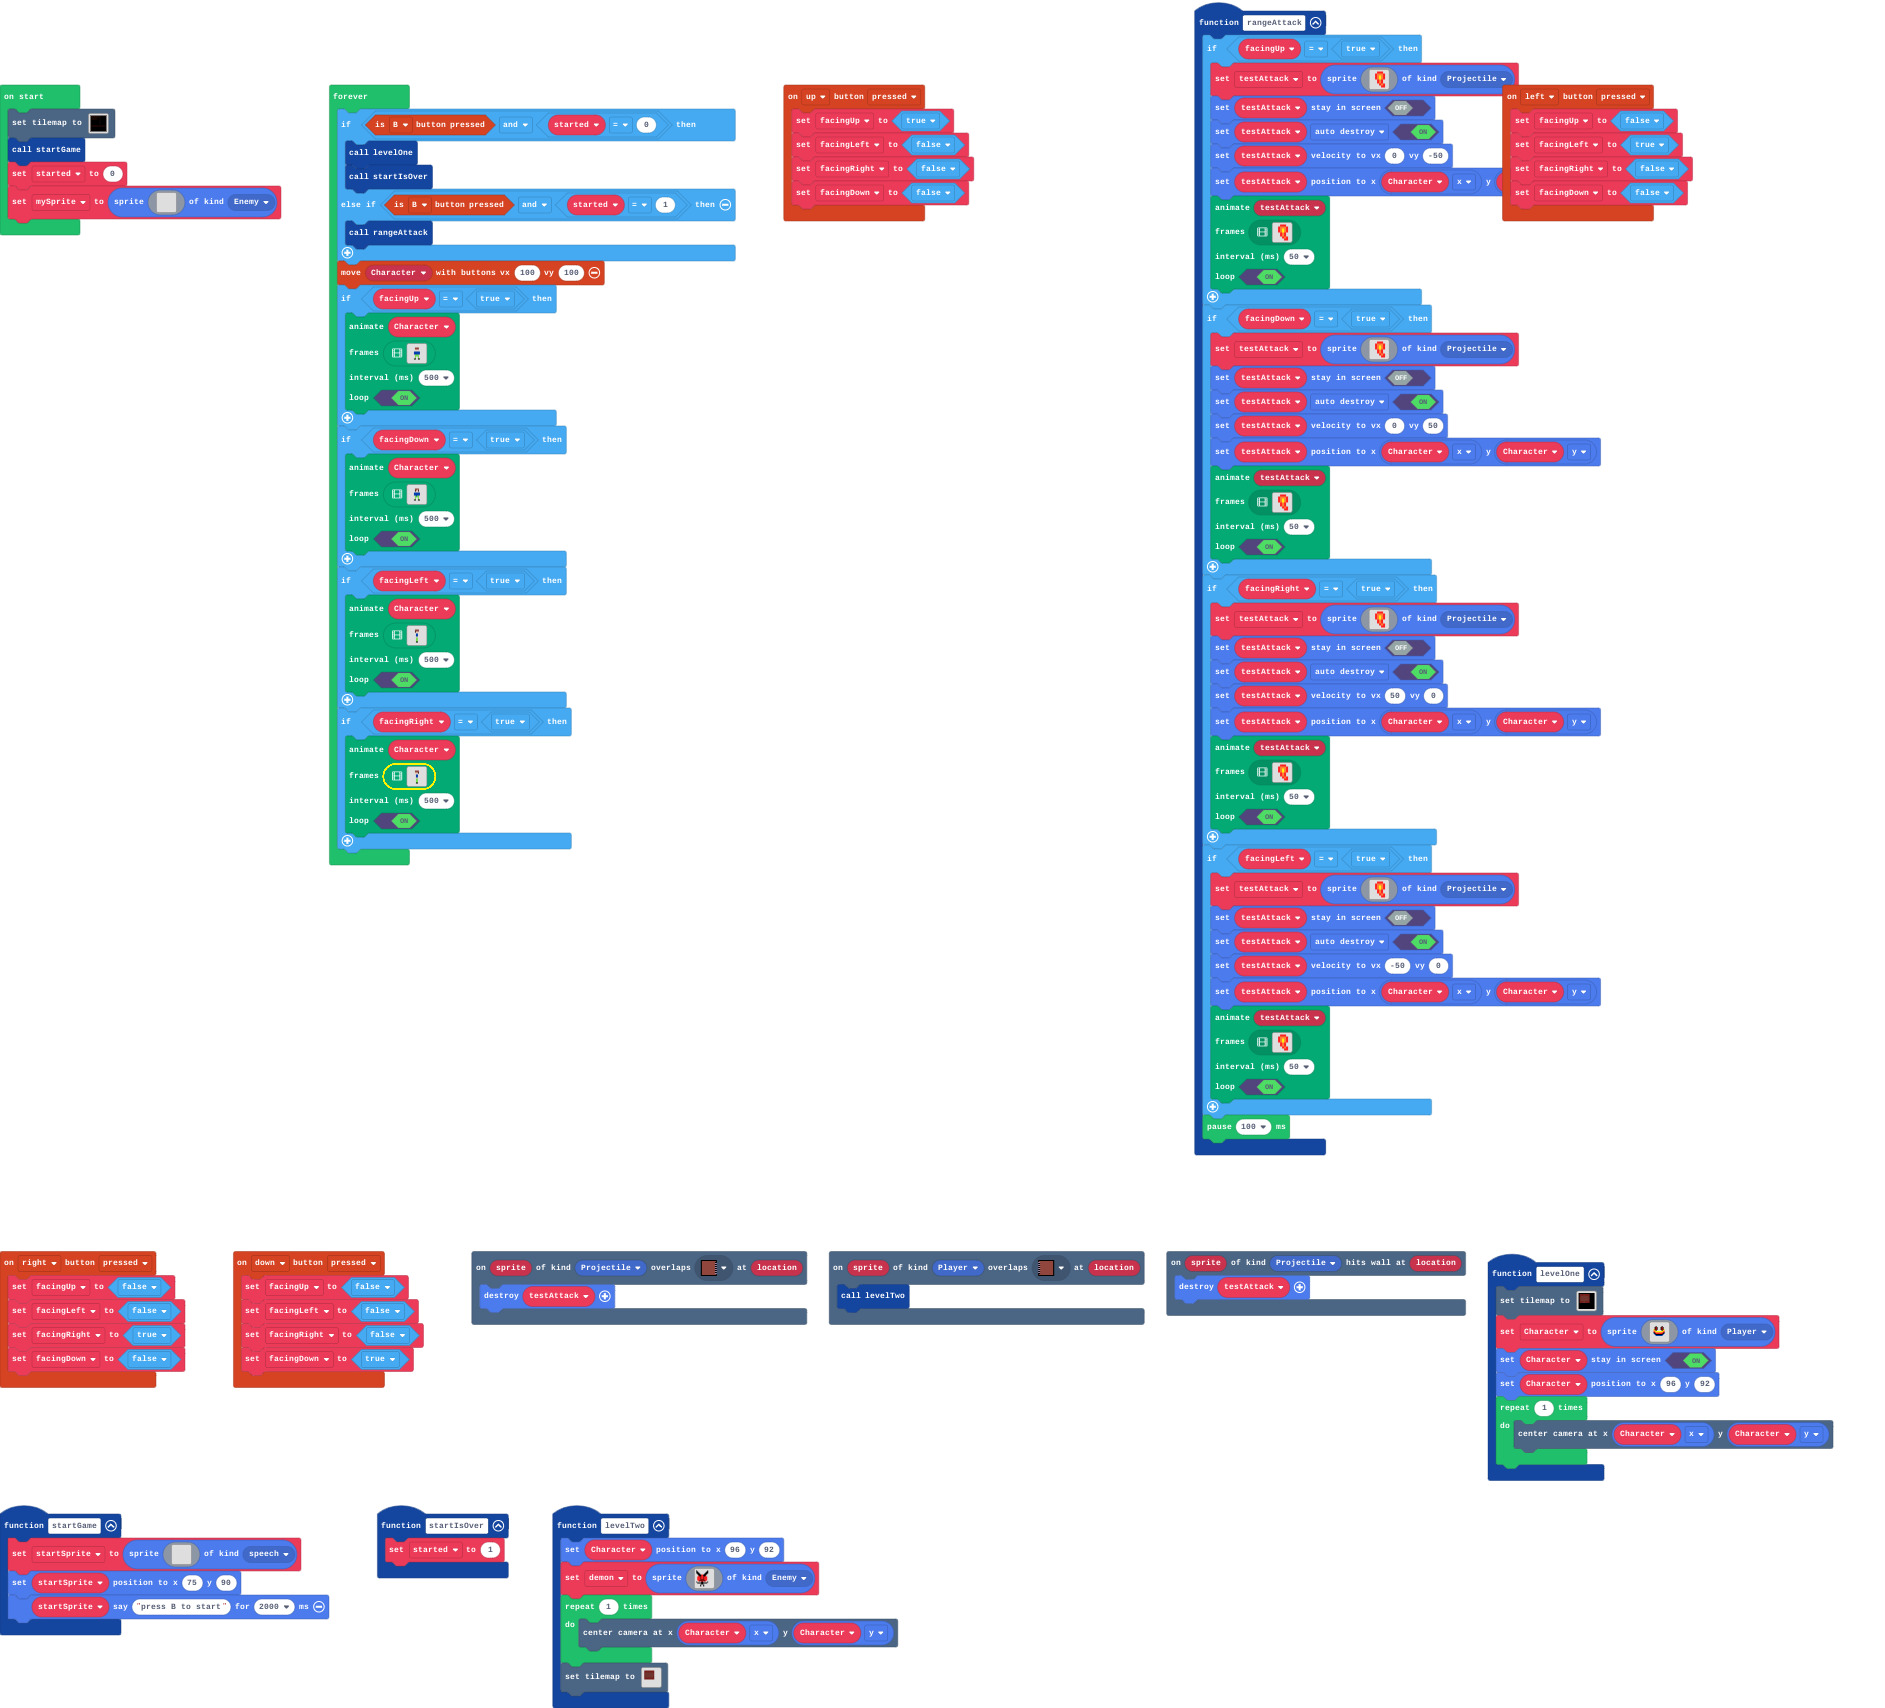
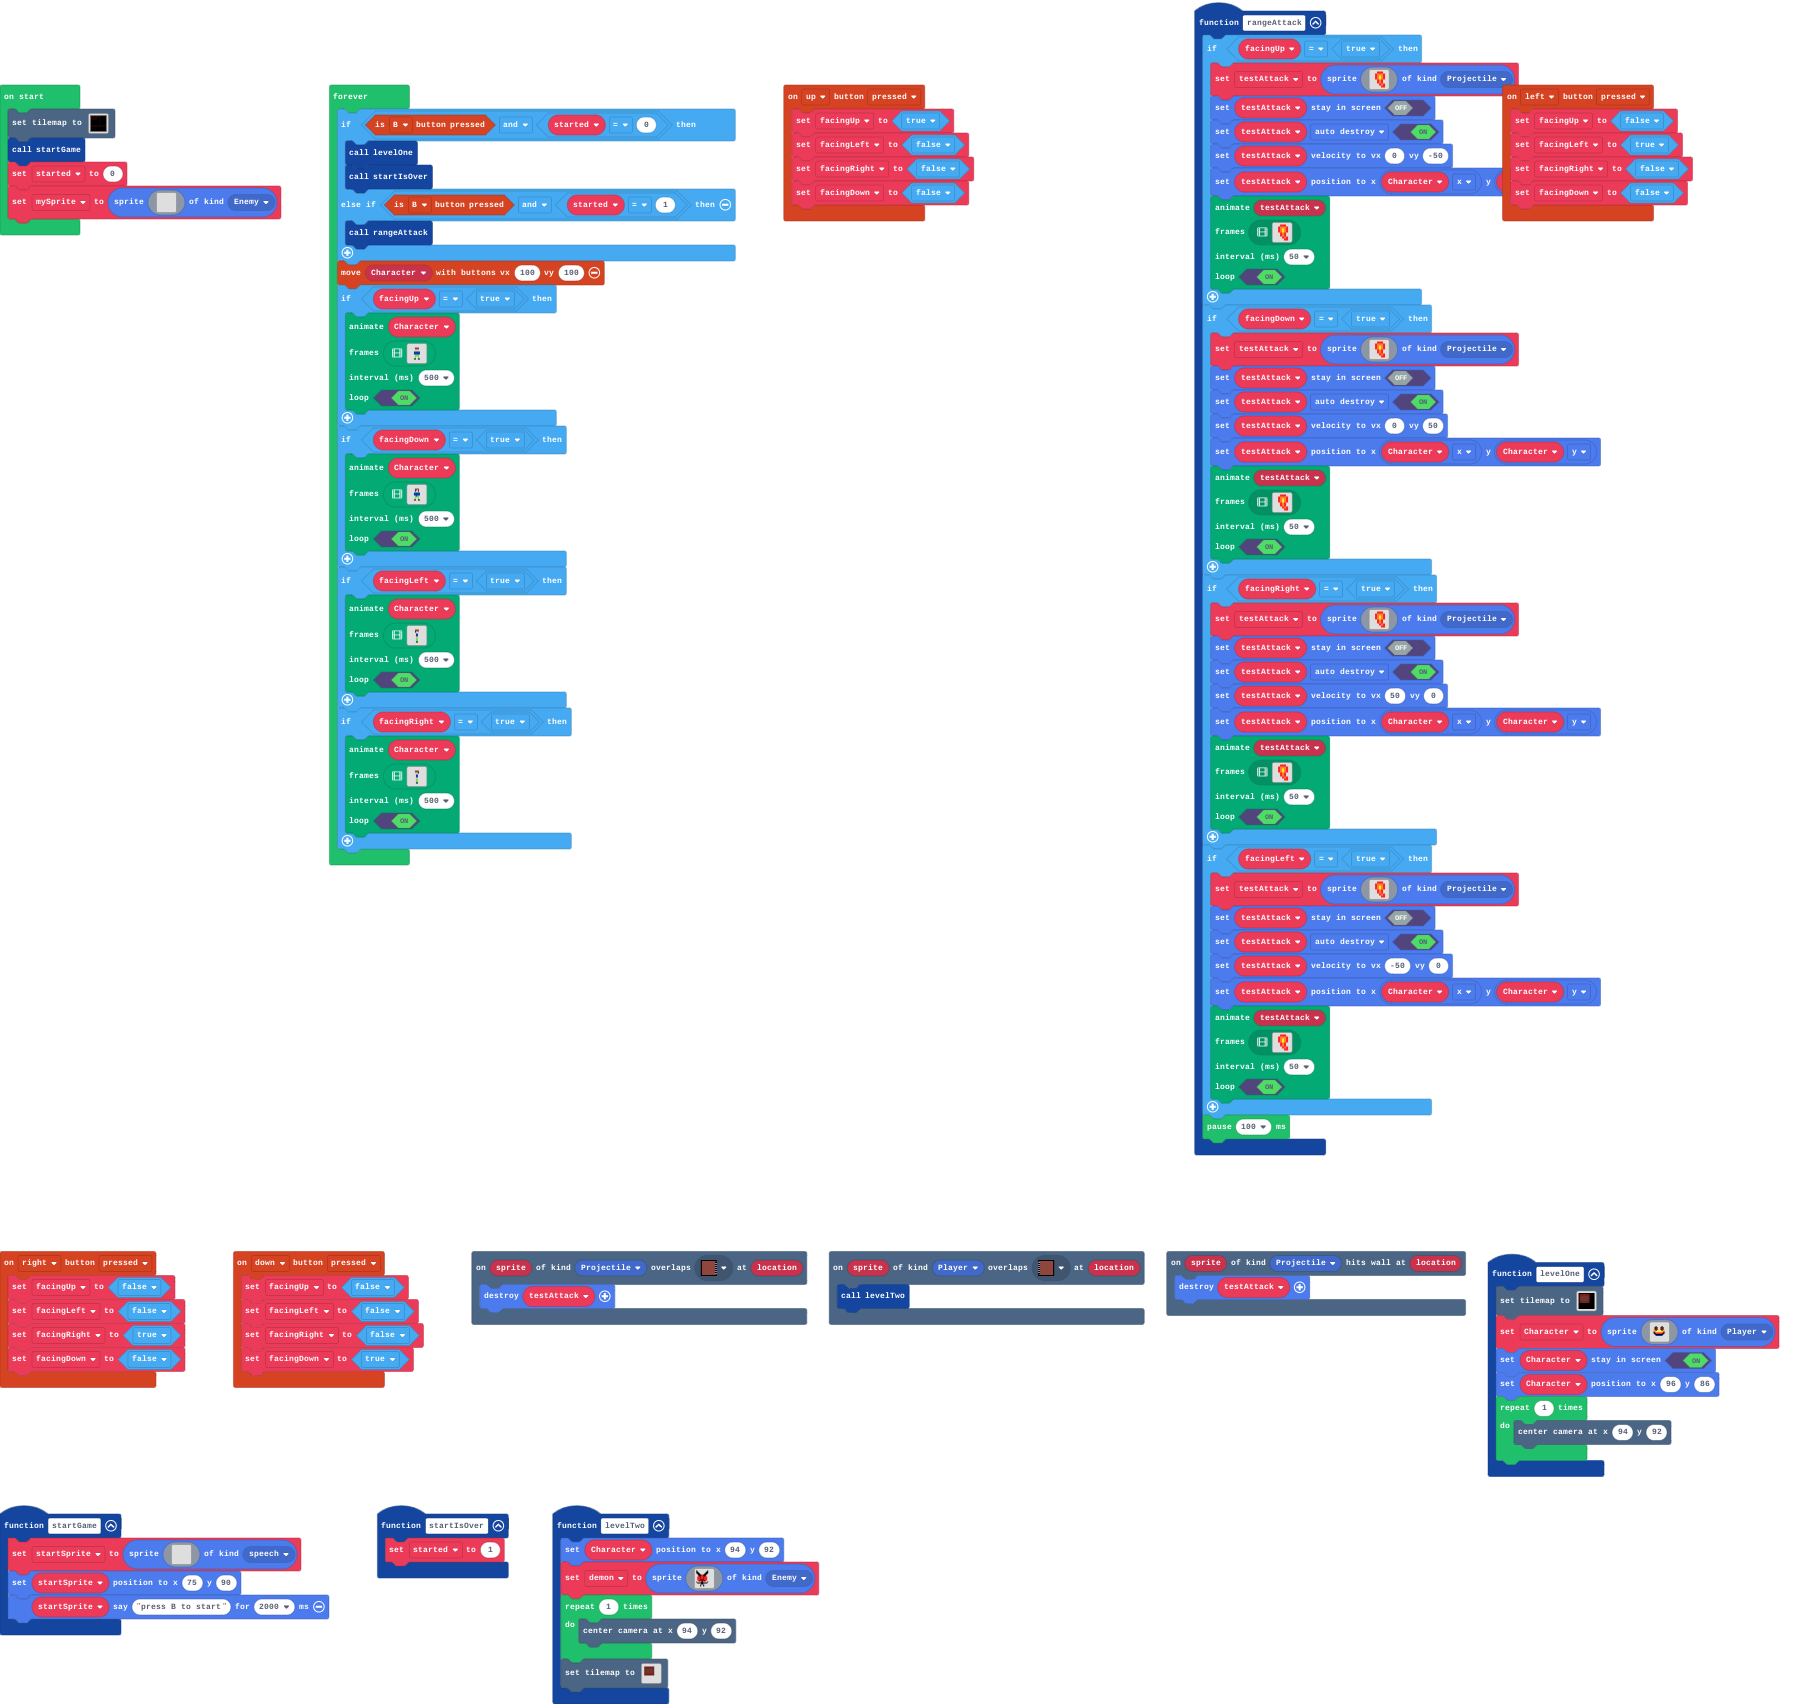
Update pxt.json, main.blocks, main.ts, tilemap.g.jres, tilemap.g.ts

diff --git a/tilemap.g.ts b/tilemap.g.ts
@@ -110,6 +110,63 @@ namespace myTiles {
 . . . . . . . . . . . . . . . . 
 . . . . . . . . . . . . . . . . 
 `, [myTiles.transparency16,myTiles.tile17,myTiles.tile21,myTiles.tile1,myTiles.tile22,myTiles.tile23,myTiles.tile24,myTiles.tile25], TileScale.Sixteen);
+            case "level4":
+            case "level4":return tiles.createTilemap(hex`1000100000000000000000000000000000000000000000000000000000000000000000000000000000000000000000000000000000000000000000000000000000000000000000000000000000000000000000000000000000000000000000000000000000000000000000000000000000000000000000000000000000000000000000000000000000000000000000000000000000000000000000000000000000000000000000000000000000000000000000000000000000000000000000000000000000000000000000000000000000000000000000000000000000000000000000000000000000000000000000000000000000000000000000000000000000000000`, img`
+. . . . . . . . . . . . . . . . 
+. . . . . . . . . . . . . . . . 
+. . . . . . . . . . . . . . . . 
+. . . . . . . . . . . . . . . . 
+. . . . . . . . . . . . . . . . 
+. . . . . . . . . . . . . . . . 
+. . . . . . . . . . . . . . . . 
+. . . . . . . . . . . . . . . . 
+. . . . . . . . . . . . . . . . 
+. . . . . . . . . . . . . . . . 
+. . . . . . . . . . . . . . . . 
+. . . . . . . . . . . . . . . . 
+. . . . . . . . . . . . . . . . 
+. . . . . . . . . . . . . . . . 
+. . . . . . . . . . . . . . . . 
+. . . . . . . . . . . . . . . . 
+`, [myTiles.transparency16], TileScale.Sixteen);
+            case "level5":
+            case "level5":return tiles.createTilemap(hex`1000100000000000000000000000000000000000000000000000000000000000000000000000000000000000000000000000000000000000000000000000000000000000000000000000000000000000000000000000000000000000000000000000000000000000000000000000000000000000000000000000000000000000000000000000000000000000000000000000000000000000000000000000000000000000000000000000000000000000000000000000000000000000000000000000000000000000000000000000000000000000000000000000000000000000000000000000000000000000000000000000000000000000000000000000000000000000`, img`
+. . . . . . . . . . . . . . . . 
+. . . . . . . . . . . . . . . . 
+. . . . . . . . . . . . . . . . 
+. . . . . . . . . . . . . . . . 
+. . . . . . . . . . . . . . . . 
+. . . . . . . . . . . . . . . . 
+. . . . . . . . . . . . . . . . 
+. . . . . . . . . . . . . . . . 
+. . . . . . . . . . . . . . . . 
+. . . . . . . . . . . . . . . . 
+. . . . . . . . . . . . . . . . 
+. . . . . . . . . . . . . . . . 
+. . . . . . . . . . . . . . . . 
+. . . . . . . . . . . . . . . . 
+. . . . . . . . . . . . . . . . 
+. . . . . . . . . . . . . . . . 
+`, [myTiles.transparency16], TileScale.Sixteen);
+            case "level6":
+            case "level6":return tiles.createTilemap(hex`1000100000000000000000000000000000000000000000000000000000000000000000000000000000000000000000000000000000000000000000000000000000000000000000000000000000000000000000000000000000000000000000000000000000000000000000000000000000000000000000000000000000000000000000000000000000000000000000000000000000000000000000000000000000000000000000000000000000000000000000000000000000000000000000000000000000000000000000000000000000000000000000000000000000000000000000000000000000000000000000000000000000000000000000000000000000000000`, img`
+. . . . . . . . . . . . . . . . 
+. . . . . . . . . . . . . . . . 
+. . . . . . . . . . . . . . . . 
+. . . . . . . . . . . . . . . . 
+. . . . . . . . . . . . . . . . 
+. . . . . . . . . . . . . . . . 
+. . . . . . . . . . . . . . . . 
+. . . . . . . . . . . . . . . . 
+. . . . . . . . . . . . . . . . 
+. . . . . . . . . . . . . . . . 
+. . . . . . . . . . . . . . . . 
+. . . . . . . . . . . . . . . . 
+. . . . . . . . . . . . . . . . 
+. . . . . . . . . . . . . . . . 
+. . . . . . . . . . . . . . . . 
+. . . . . . . . . . . . . . . . 
+`, [myTiles.transparency16], TileScale.Sixteen);
         }
         return null;
     })

diff --git a/main.ts b/main.ts
@@ -60,9 +60,9 @@ function levelOne () {
         . . . . . . . . . . . . . . . . 
         `, SpriteKind.Player)
     Character.setStayInScreen(true)
-    Character.setPosition(96, 92)
+    Character.setPosition(96, 86)
     for (let index = 0; index < 1; index++) {
-        scene.centerCameraAt(Character.x, Character.y)
+        scene.centerCameraAt(94, 92)
     }
 }
 function startIsOver () {
@@ -178,7 +178,7 @@ scene.onHitWall(SpriteKind.Projectile, function (sprite, location) {
     testAttack.destroy()
 })
 function levelTwo () {
-    Character.setPosition(96, 92)
+    Character.setPosition(94, 92)
     demon = sprites.create(img`
         f . . . . . . . . . . f . . . . 
         f f . . . . . . . . f f . . . . 
@@ -198,7 +198,7 @@ function levelTwo () {
         . . . . f . . f . . . . . . . . 
         `, SpriteKind.Enemy)
     for (let index = 0; index < 1; index++) {
-        scene.centerCameraAt(Character.x, Character.y)
+        scene.centerCameraAt(94, 92)
     }
     tiles.setTilemap(tilemap`level3`)
 }
